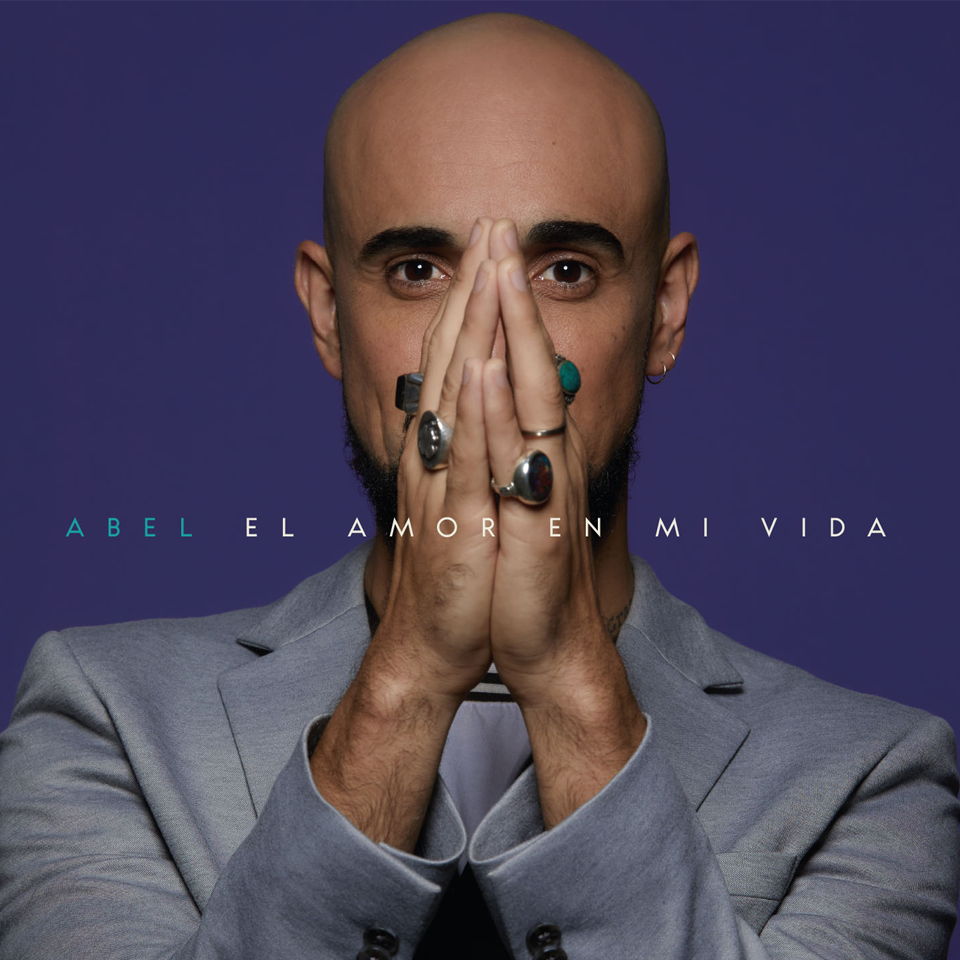
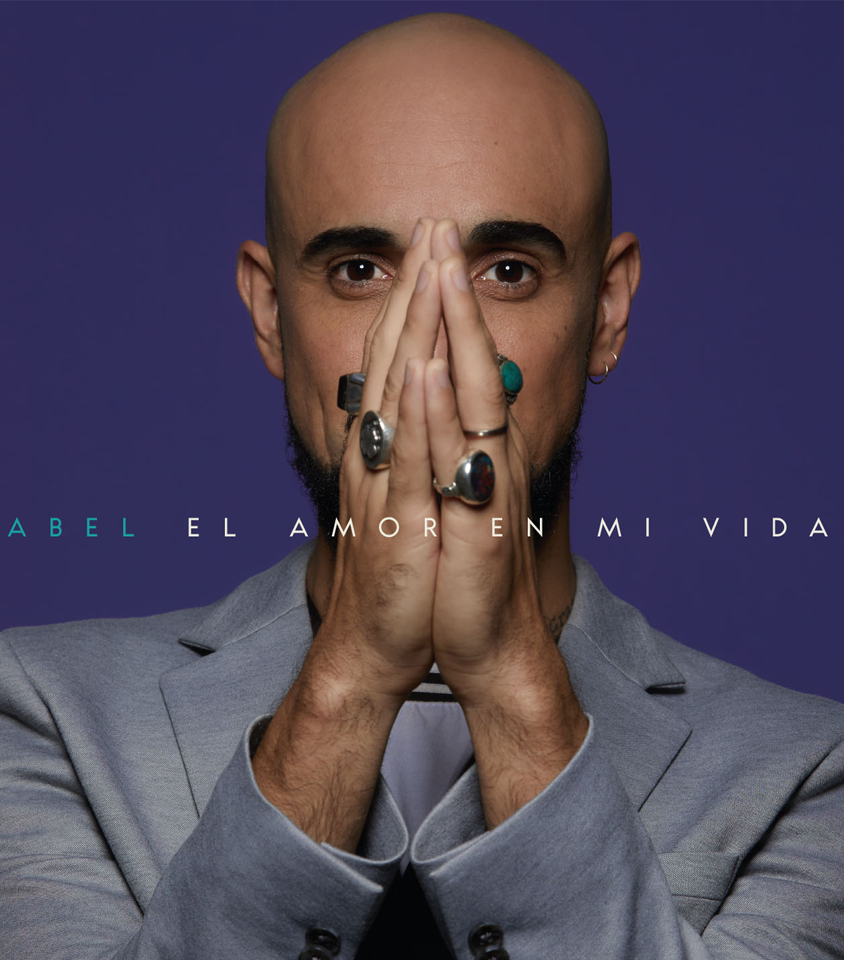
Media tablet

diff --git a/index.html b/index.html
@@ -21,7 +21,7 @@
             </div>
     </header>
 
-    <div class="flexRow">
+    <div class="content">
         <div class="columnaUno">
             <div>
                 <div class="fotoAbel" >
@@ -120,7 +120,7 @@
                     <h3>(1997)</h3>
                     <p>Consta de 18 canciones de autores reconocidos como Horacio Banegas, Carlos Carabajal, Peteco Carabajal, Raúl Carnota, Atahualpa Yupanqui, Cesar Isella y Bebe Ponti, entre otros.</p>
                 </div>
-                <div class="cardCD">
+                <div class="cardCD last">
                     <img src="recursos/albumes/002-TodosLosDiasUnPoco.jpeg" alt="CD2: Todos los dias un poco">
                     <h2>"Todos los dias un poco"</h2>
                     <h3>(1999)</h3>
@@ -147,7 +147,7 @@
                     <h3>(2005)</h3>
                     <p>El material incluye temas propios en letra y música dando un nuevo paso dentro de su carrera.  El primer corte de difusión se titula "Quién Pudiera". </p>
                 </div>
-                <div class="cardCD">
+                <div class="cardCD last">
                     <img src="recursos/albumes/abellallave.jpeg" alt="CD6: La llave">
                     <h2>"La llave"</h2>
                     <h3>(2007)</h3>
@@ -174,7 +174,7 @@
                     <h3>(2013)</h3>
                     <p>Consta de 18 canciones de autores reconocidos como Horacio Banegas, Carlos Carabajal, Peteco Carabajal, Raúl Carnota, Atahualpa Yupanqui, Cesar Isella y Bebe Ponti, entre otros.</p>
                 </div>
-                <div class="cardCD">
+                <div class="cardCD last">
                     <img src="recursos/albumes/abelpintosunico.jpeg" alt="CD10: Unico">
                     <h2>"Unico"</h2>
                     <h3>(2015)</h3>
@@ -195,10 +195,12 @@
             </div>
 
             <div class="ultimoCD">
-                <img src="recursos/albumes/CD_eaemv_tapa.png" alt="CD12: El amor en mi vida">
-                <div class="columnaCenter">
+                <div class="ultimoCDimg">
+                    <img src="recursos/albumes/CD_eaemv_tapa.png" alt="CD12: El amor en mi vida">
+                </div>
+                <div class="textCenter">
                     <h2>"El amor en mi vida"</h2>
-                    <h3 class="marginBottom30px">(2021)</h3>
+                    <h3>(2021)</h3>
                     <p>El amor en mi vida tiene dos características muy especiales: es un disco muy compartido y al mismo tiempo es el disco más personal que haya escrito hasta hoy. Lo siento tan personal, porque si bien en toda mi carrera me encargué de hablar a través de mi canto, de todo lo que he experimentado, en esta ocasión siento haber expuesto mis emociones y sentimientos, de un modo más literal, concreto y certero. En esta etapa tan especial de mi camino el amor se ha manifestado en todas sus formas para llenarme de luz y llevarme a contarles a todos ustedes lo que significa hoy El amor en mi vida.</p>
                 </div>
             </div>

diff --git a/styles.css b/styles.css
@@ -105,13 +105,17 @@ to {background-color: #003B75;}
     margin-bottom: 80px !important;
 }
 
-.marginBottom30px {
-    margin-bottom: 30px;
-}
-
 .flexRow {
     display: flex;
     flex-direction: row;
+}
+
+
+.content {
+    display: flex;
+    flex-direction: row;
+    width: 80%;
+    margin: auto;
 }
 
 .flexEnd {
@@ -185,13 +189,17 @@ ul > li > a:hover {
 }
 
 .columnaUno {
-    width: calc(100% - 120px);
-    margin-left: 120px;
+    width: 30%;
+    border-right: solid 1px #E5E5E5;
+    padding: 2%;
+    /*width: calc(100% - 120px);*/
+    /*margin-left: 120px;*/
 }
 
 .columnaDos {
-    margin-left: 80px;
-    margin-right: 120px;
+    width: 70%;
+    padding: 0 5%;
+    /*margin-right: 120px;*/
 }
 
 .columnaCenter img {
@@ -205,6 +213,7 @@ ul > li > a:hover {
 
 .fotoAbel img {
     border-radius: 10px;
+    width: 100%;
 }
 
 .orderRedes {
@@ -228,13 +237,17 @@ ul > li > a:hover {
     justify-content: space-between;
 }
 
-.orderCD .cardCD:last-child {
+.orderCD, .cardCD:last-child {
     margin-right: 0;
+}
+
+.last {
+    display: none;
 }
 
 .cardCD {
     margin: 0 15px 30px 0;
-    width: calc(20% - 15px);
+    width: calc(100% - 15px);
     align-items: center;
     text-align: center;
     border: solid 1px #E5E5E5;
@@ -257,20 +270,36 @@ ul > li > a:hover {
 
 .cardCD p {
     margin-bottom: 15px;
+    padding: 0 5px;
 }
 
-.ultimoCD {display: flex;
+.ultimoCD {
+    display: flex;
     flex-direction: row;
     border: solid 1px #E5E5E5;
     border-radius: 10px;
     box-shadow: 0 4px 6px #E5E5E5;
+    width: 100%;
 }
 
-.ultimoCD img {
-    width: 45%;
-    margin-right: 25px;
+.ultimoCDimg {
+    width: 50%;
+}
+
+.ultimoCDimg img {
     border-radius: 10px 0 0 10px;
-    box-shadow: 0 4px 6px #E5E5E5;
+    width: 100%;
+    height: 100%;
+}
+
+.textCenter {
+    width: 48%;
+    text-align: center;
+    padding: 0 2%;
+}
+
+.textCenter p {
+    padding: 25px 0;
 }
 
 footer {
@@ -298,6 +327,29 @@ footer a:hover {
     .cardCD {
         width: 45%;
     }
+
+    .last {
+        display: block;
+        margin-right: 0;
+    }
+}
+
+@media (max-width: 1440px) {
+    .ultimoCD {
+        flex-direction: column;
+    }
+
+    .ultimoCDimg {
+        width: 100%;
+    }
+
+    .textCenter {
+        width: calc(100% - 2%);
+    }
+
+    .ultimoCDimg img {
+        border-radius: 10px 10px 0 0;
+    }
 }
 
 @media (max-width: 480px) {
@@ -309,6 +361,15 @@ footer a:hover {
         margin-right: 15px;
         margin-left: 15px;
         width: calc(100% - 30px);
+    }
+
+    .marginBottom {
+        margin-bottom: 40px;
+    }
+
+    .fotoAbel {
+        display: flex;
+        justify-content: center;
     }
 
     .fotoAbel img {
